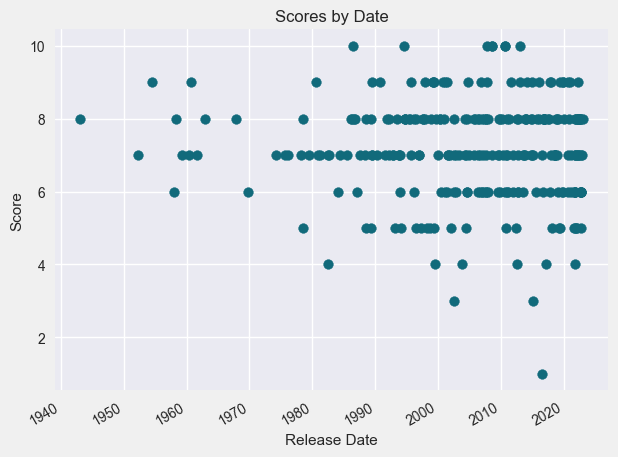
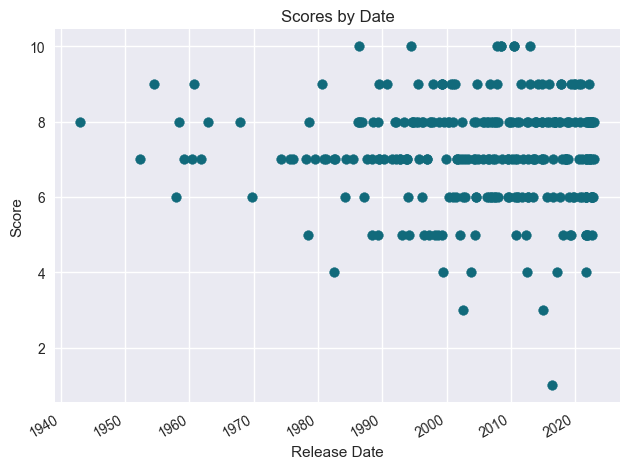
Added to README

diff --git a/movie_results.py b/movie_results.py
@@ -42,13 +42,13 @@ pieColorsArr = [
 
 def main(inputFilePath, year):
     df = pd.read_csv(inputFilePath)
-    scores(inputFilePath, df)
-    months(inputFilePath, df, year)
-    ratings(inputFilePath, df)
-    numOfRatings(inputFilePath, df)
-    dateAndRatings(inputFilePath, df)
-    runtimeScores(inputFilePath, df)
-    budgetBoxOffice(inputFilePath, df)
+    # scores(inputFilePath, df)
+    # months(inputFilePath, df, year)
+    # ratings(inputFilePath, df)
+    # numOfRatings(inputFilePath, df)
+    dateAndRatings(inputFilePath, df)  # TODO trendline
+    # runtimeScores(inputFilePath, df)
+    # budgetBoxOffice(inputFilePath, df)
 
 
 def budgetBoxOffice(inputFilePath, df):

diff --git a/README.md b/README.md
@@ -12,6 +12,9 @@ runtimeScores:
 This function shows Score on the x-axis compared vs Runtime on the y-axis.
 The trendline shows that as runtime increases, so do my ratings of each movie.
 See above for R^2 and p value definitions.
+The outlier on the top of the graph is the movie Titanic.
 
 dateAndRatings:
 This function shows the movie Release Dates on the x-axis compared vs my Scores on the y-axis.
+This function shows Relase Date on the x-axis compared vs Score on the y-axis.
+
